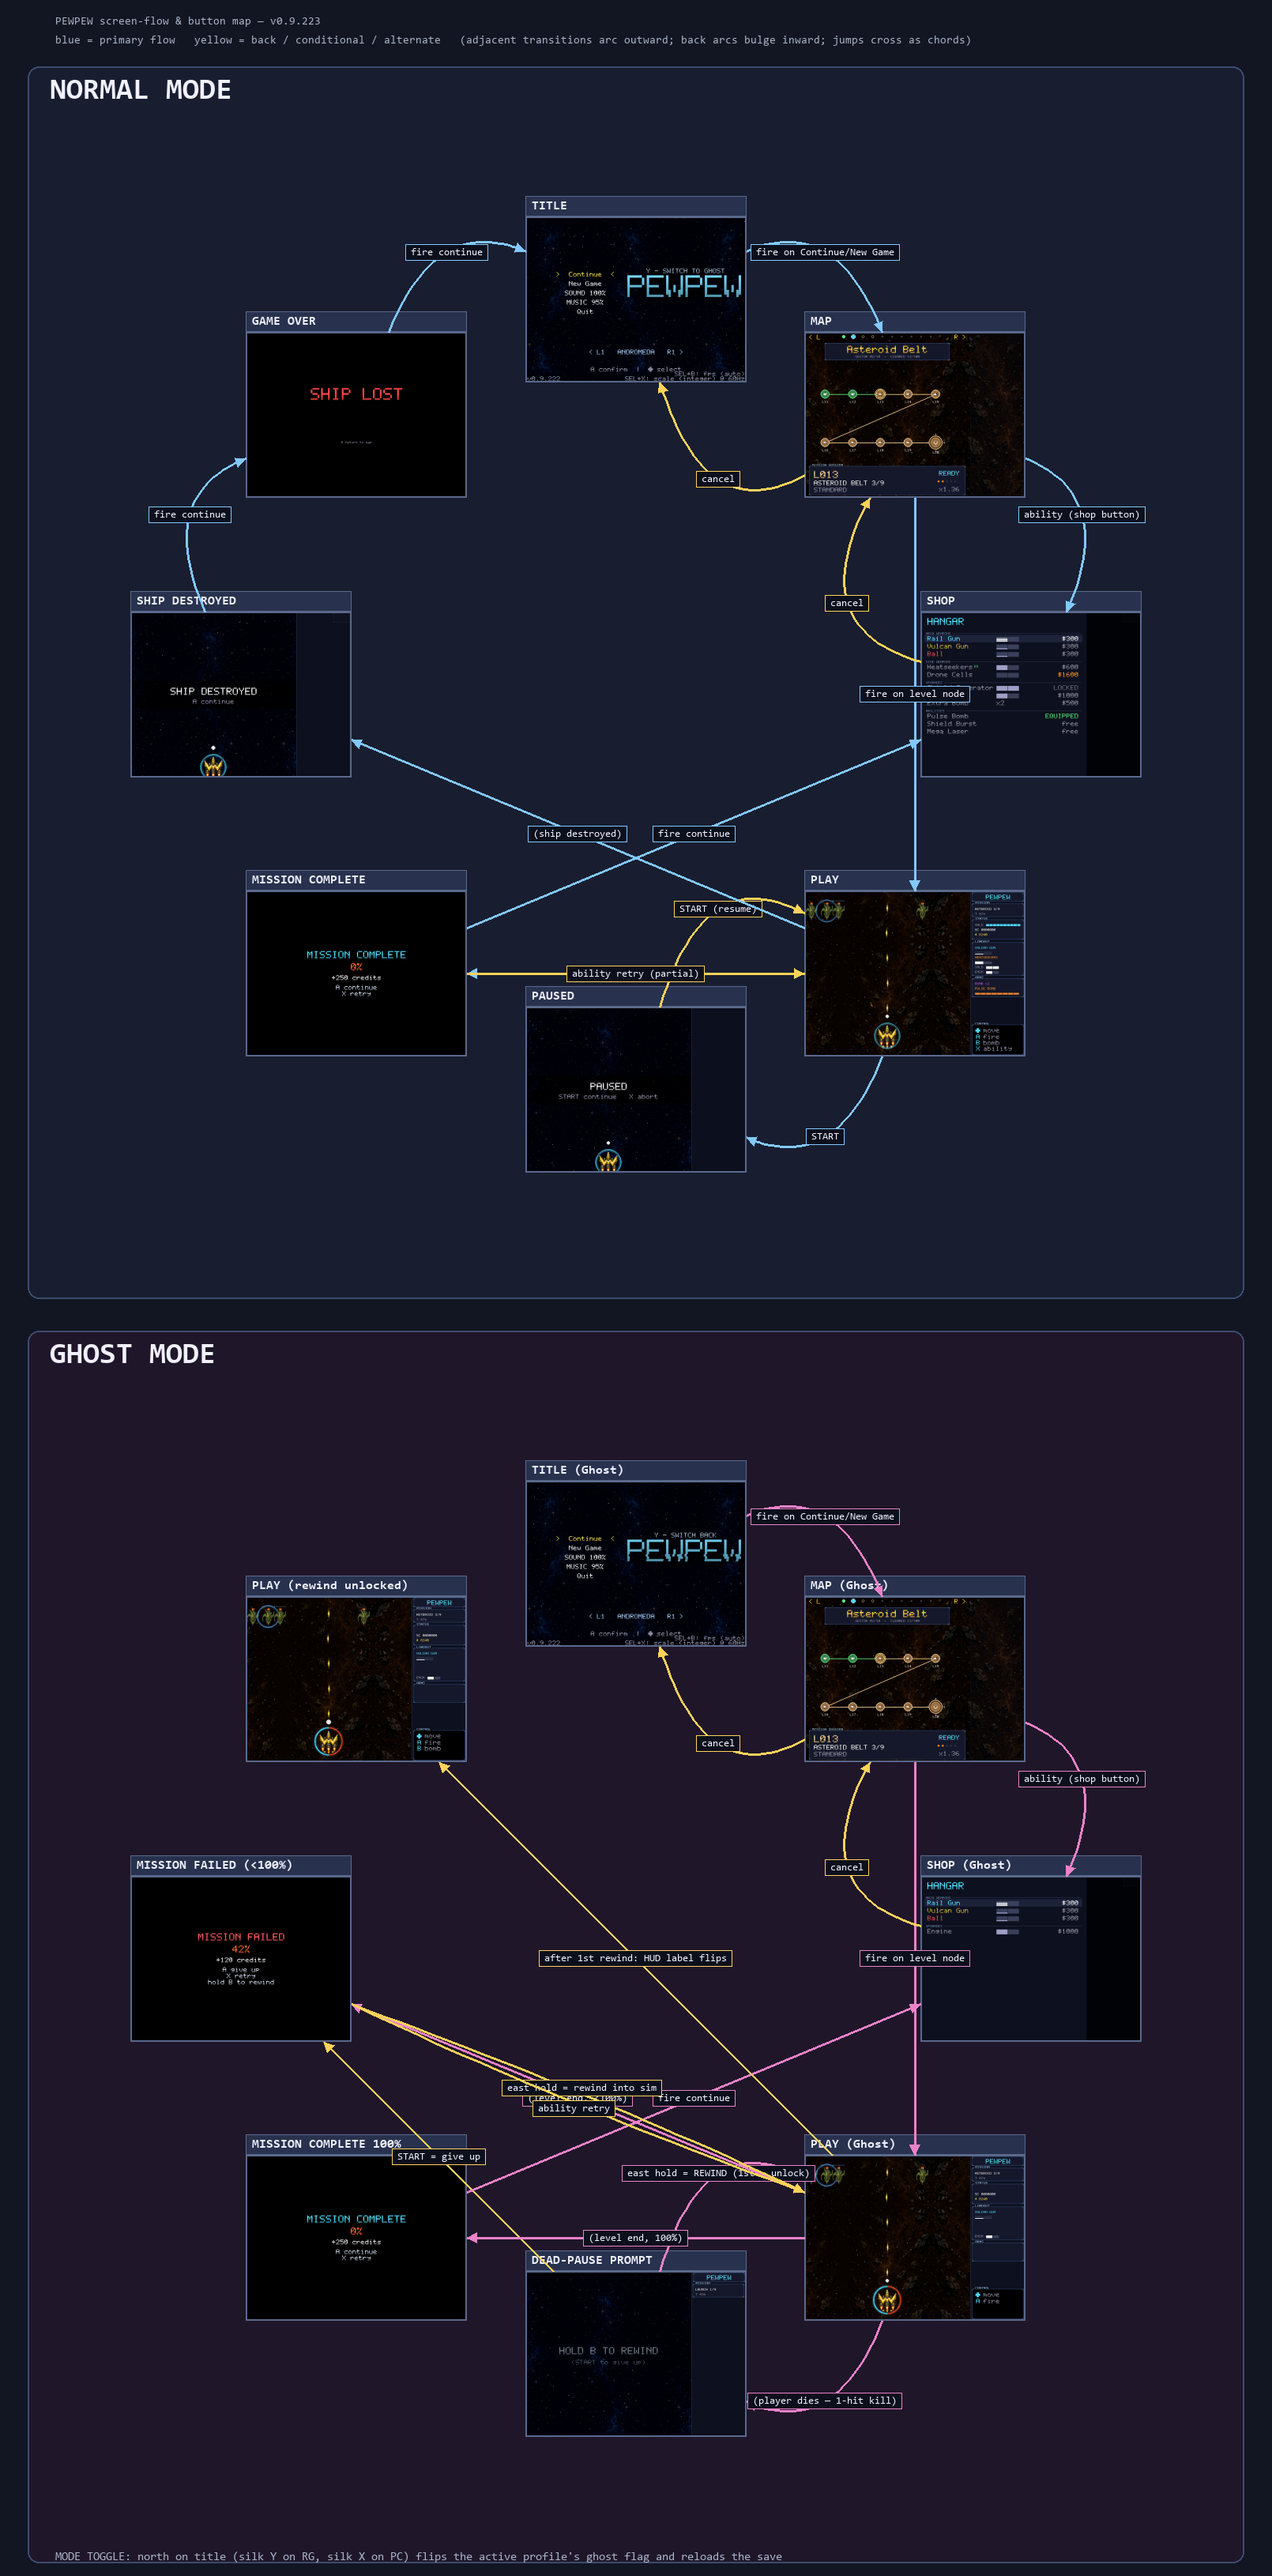
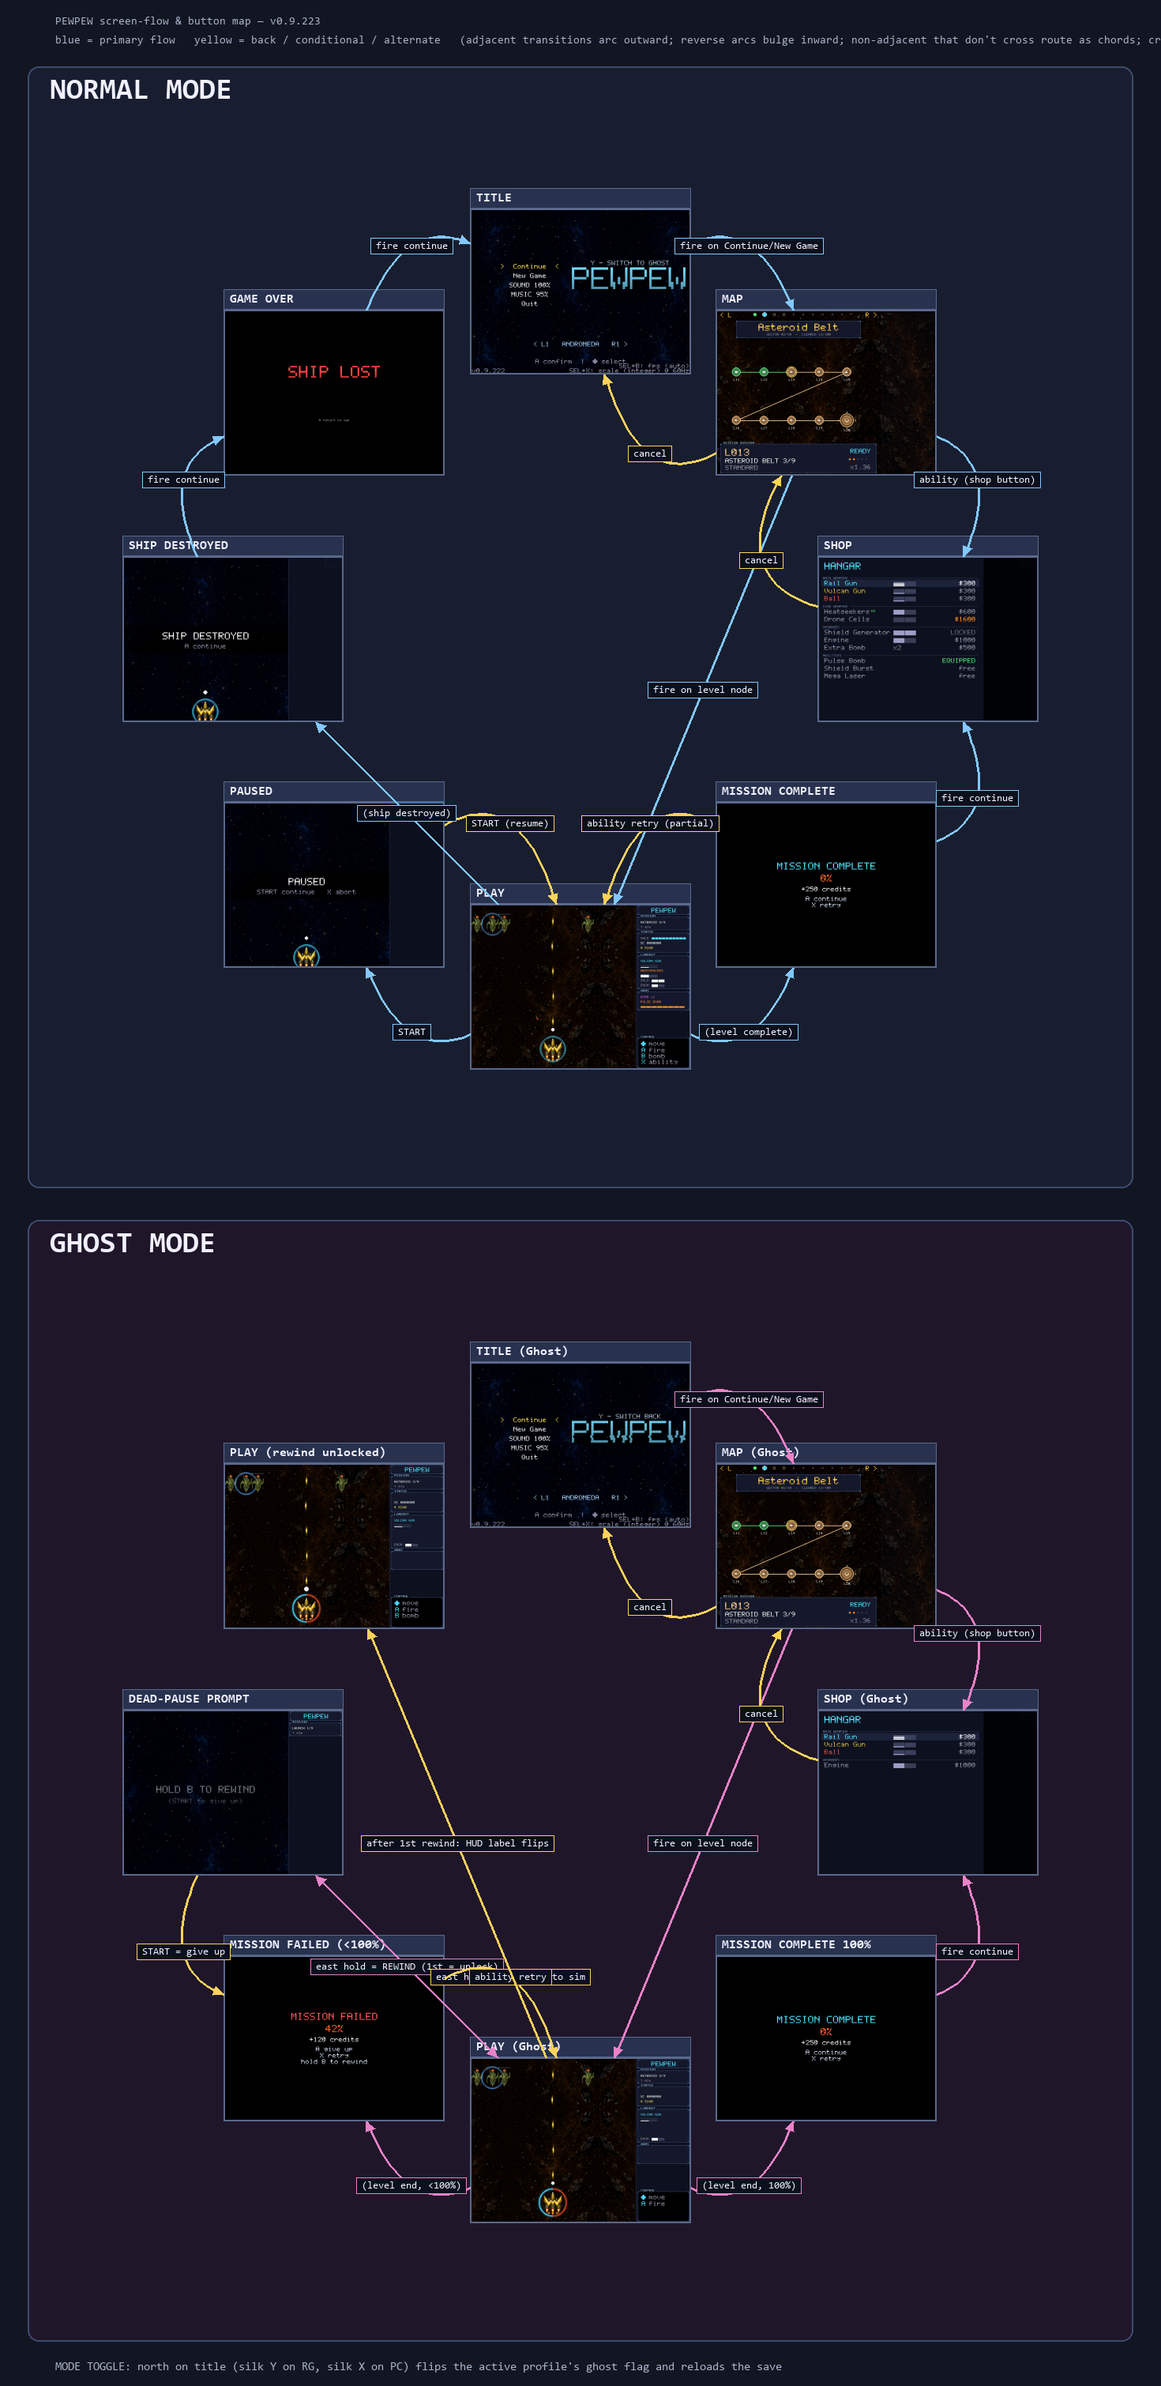
v0.9.223+: flow diagram — brute-force ordering, zero crossings
find_best_order() brute-forces all 7! orderings per mode with the
title locked at slot 0 (12 o'clock), scoring by (crossings, -arcs)
to minimise interior-chord crossings then maximise outer arcs.
Both NORMAL and GHOST land on 0 crossings with 10-11/14 arrows
adjacent as arcs.

assign_outer_arcs() greedily promotes any remaining crossing
chords to dedicated outer-arc lanes at increasing radii — no-op
here since the brute force eliminates all crossings, but stays
in place for future arrow additions.

Canvas now sized dynamically based on actual lanes used: drops
from 1610x3260 to 1470x3020.

diff --git a/_flow_diagram.py b/_flow_diagram.py
@@ -31,7 +31,7 @@ Windows); in-game labels follow BUTTON_SCHEME and swap on the RG.
 Face-position names (north/east/west/south) are used where the
 binding is the same on every controller.
 """
-import os, sys, math
+import os, sys, math, itertools
 os.environ.setdefault("SDL_VIDEODRIVER", "dummy")
 os.environ.setdefault("SDL_AUDIODRIVER", "dummy")
 import pygame
@@ -47,20 +47,28 @@ OUT_PATH = os.path.join(SHOT_DIR, "flow_diagram.png")
 
 # ── Canvas + tile geometry ──────────────────────────────────────────
 TILE_W, TILE_H = 280, 210
-RADIUS = 500
+RADIUS = 440
 SEC_HEAD = 60
 MARGIN = 70
-RIM_MARGIN = 60   # label breathing room past the outer tile reach
+RIM_MARGIN = 50
 
-# Outer reach from circle centre — diagonal half-tile so corner-placed
-# tiles (at 1:30, 4:30, etc.) still have clearance.
-OUTER = RADIUS + math.hypot(TILE_W, TILE_H) / 2 + RIM_MARGIN
+# Outer-arc lanes for non-adjacent arrows that would otherwise cross
+# in the interior. Each promoted chord gets its own concentric lane.
+OUTER_LANE_BASE = 1.34
+OUTER_LANE_STEP = 0.11
 
-SEC_W = int(2 * OUTER + 2 * MARGIN)
-SEC_H = int(SEC_HEAD + 2 * OUTER + 30)
 
-CANVAS_W = SEC_W
-CANVAS_H = MARGIN + 2 * SEC_H + 70
+def section_outer(lanes_used):
+    """Distance from circle centre to the section's outer edge.
+    Sized to the larger of (tile diagonal reach) and (outermost
+    arc-lane radius)."""
+    tile_reach = RADIUS + math.hypot(TILE_W, TILE_H) / 2
+    if lanes_used > 0:
+        ring = RADIUS * (OUTER_LANE_BASE
+                         + OUTER_LANE_STEP * (lanes_used - 1))
+    else:
+        ring = 0
+    return max(tile_reach, ring) + RIM_MARGIN
 
 BG = (18, 22, 34)
 SEC_NORMAL_BG = (24, 30, 48)
@@ -146,6 +154,106 @@ F_TITLE = font(16, bold=True)
 F_LABEL = font(13)
 F_FOOT = font(15)
 F_HEAD = font(14)
+
+
+# ── Order optimisation: minimise interior chord crossings ──────────
+def order_score(perm, arrows):
+    """Lower is better. Tuple (crossings, -arc_count): primary
+    objective is to minimise interior-chord crossings; tiebreaker is
+    maximum arc count (more adjacent-on-circle = more outer arcs =
+    visually cleaner). `perm` is an ordered tuple of screen ids."""
+    n = len(perm)
+    position = {sid: i for i, sid in enumerate(perm)}
+    chord_set = set()
+    arc_count = 0
+    for src, dst, *_ in arrows:
+        if src not in position or dst not in position:
+            continue
+        a, b = position[src], position[dst]
+        diff = min((a - b) % n, (b - a) % n)
+        if diff == 1:
+            arc_count += 1
+        else:
+            lo, hi = sorted((a, b))
+            chord_set.add((lo, hi))
+    chords = list(chord_set)
+    crossings = 0
+    for i in range(len(chords)):
+        ai, bi = chords[i]
+        for j in range(i + 1, len(chords)):
+            aj, bj = chords[j]
+            if (ai < aj < bi < bj) or (aj < ai < bj < bi):
+                crossings += 1
+    return (crossings, -arc_count)
+
+
+def find_best_order(screens, arrows):
+    """Brute force over (n-1)! permutations with screens[0] (=TITLE)
+    locked at slot 0 (12 o'clock). Rotation symmetry is broken by
+    the fixed slot, so the search space is just the orderings of the
+    remaining screens. With n=8 that's 5040 — trivially fast."""
+    n = len(screens)
+    ids = [s[0] for s in screens]
+    fixed = ids[0]
+    others = ids[1:]
+    best_score = None
+    best_perm = None
+    for tail in itertools.permutations(others):
+        perm = (fixed,) + tail
+        s = order_score(perm, arrows)
+        if best_score is None or s < best_score:
+            best_score = s
+            best_perm = perm
+    by_id = {s[0]: s for s in screens}
+    return [by_id[sid] for sid in best_perm], best_score
+
+
+def assign_outer_arcs(arrows, ordered_screens):
+    """Greedily promote crossing interior chords to outer-arc lanes.
+
+    After the ordering optimisation there can still be unavoidable
+    interior crossings if the arrow set requires them. For each
+    remaining crossing pair we pick the chord involved in the most
+    crossings and route it around the OUTSIDE of the circle (long
+    way), at a unique radius so multiple outer arcs don't cross each
+    other.
+
+    Returns {arrow_idx: lane_idx}. Adjacent-on-circle arrows are not
+    eligible (they're already arcs)."""
+    n = len(ordered_screens)
+    position = {s[0]: i for i, s in enumerate(ordered_screens)}
+    pair_arrows = {}
+    for idx, (src, dst, *_) in enumerate(arrows):
+        if src not in position or dst not in position:
+            continue
+        a, b = position[src], position[dst]
+        diff = min((a - b) % n, (b - a) % n)
+        if diff <= 1:
+            continue
+        pair = tuple(sorted((a, b)))
+        pair_arrows.setdefault(pair, []).append(idx)
+
+    outer_pairs = []
+    while True:
+        active = [p for p in pair_arrows if p not in outer_pairs]
+        per_pair = {p: 0 for p in active}
+        for i in range(len(active)):
+            ai, bi = active[i]
+            for j in range(i + 1, len(active)):
+                aj, bj = active[j]
+                if (ai < aj < bi < bj) or (aj < ai < bj < bi):
+                    per_pair[active[i]] += 1
+                    per_pair[active[j]] += 1
+        if not per_pair or max(per_pair.values()) == 0:
+            break
+        worst = max(per_pair, key=lambda p: per_pair[p])
+        outer_pairs.append(worst)
+
+    out_assignments = {}
+    for lane, pair in enumerate(outer_pairs):
+        for arrow_idx in pair_arrows[pair]:
+            out_assignments[arrow_idx] = lane
+    return out_assignments
 
 
 # ── Circle placement ────────────────────────────────────────────────
@@ -268,6 +376,30 @@ def draw_arc_arrow(canvas, src_rect, dst_rect,
     draw_label_chip(canvas, int(apex[0]), int(apex[1]), label, color)
 
 
+def draw_outer_arc_arrow(canvas, src_rect, dst_rect,
+                         src_idx, dst_idx, n, circle_c,
+                         lane_idx, label, color):
+    """Long-way arc around the OUTSIDE of the circle, at a per-lane
+    radius so multiple outer arcs sit at distinct distances and
+    never cross each other."""
+    a_src = slot_angle(src_idx, n)
+    a_dst = slot_angle(dst_idx, n)
+    short_mid = (a_src + a_dst) / 2
+    if abs(a_dst - a_src) > math.pi:
+        short_mid += math.pi
+    long_mid = short_mid + math.pi
+    bulge_r = RADIUS * (OUTER_LANE_BASE + OUTER_LANE_STEP * lane_idx)
+    ctrl = (circle_c[0] + bulge_r * math.sin(long_mid),
+            circle_c[1] - bulge_r * math.cos(long_mid))
+    sp = rect_edge_toward(src_rect, ctrl)
+    dp = rect_edge_toward(dst_rect, ctrl)
+    pts = quadratic_bezier(sp, ctrl, dp, steps=36)
+    pygame.draw.lines(canvas, color, False, pts, 3)
+    draw_arrowhead(canvas, pts[-1], pts[-2], color)
+    apex = pts[len(pts) // 2]
+    draw_label_chip(canvas, int(apex[0]), int(apex[1]), label, color)
+
+
 def draw_chord_arrow(canvas, src_rect, dst_rect, label, color, lane_offset=0):
     """Straight chord with optional perpendicular offset on the
     midpoint so parallel chords don't overlap their labels."""
@@ -290,30 +422,31 @@ def draw_chord_arrow(canvas, src_rect, dst_rect, label, color, lane_offset=0):
 
 
 # ── Section renderer ────────────────────────────────────────────────
-def draw_section(canvas, header, screens, arrows, sec_y, bg,
+def draw_section(canvas, header, ordered, arrows, outer_assignments,
+                 sec_y, sec_w, sec_h, outer, bg,
                  arrow_blue, arrow_yellow):
-    band = pygame.Rect(MARGIN // 2, sec_y, CANVAS_W - MARGIN, SEC_H)
+    band = pygame.Rect(MARGIN // 2, sec_y, sec_w - MARGIN, sec_h)
     pygame.draw.rect(canvas, bg, band, border_radius=14)
     pygame.draw.rect(canvas, (60, 75, 110), band, 2, border_radius=14)
     head_surf = F_SEC.render(header, True, HEAD_FG)
     canvas.blit(head_surf, (band.x + 28, sec_y + 12))
 
-    cx = CANVAS_W // 2
-    cy = sec_y + SEC_HEAD + int(OUTER)
+    cx = sec_w // 2
+    cy = sec_y + SEC_HEAD + int(outer)
     circle_c = (cx, cy)
 
     rects = {}
     indices = {}
-    n = len(screens)
-    for i, (sid, fname, title) in enumerate(screens):
+    n = len(ordered)
+    for i, (sid, fname, title) in enumerate(ordered):
         rect = slot_rect(i, n, cx, cy)
         rects[sid] = rect
         indices[sid] = i
         draw_tile(canvas, sid,
                   os.path.join(SHOT_DIR, fname), title, rect)
 
-    # Group same-pair arrows so we can stagger forward/back on opposite
-    # bulge sides (one outward, one inward) instead of overlapping.
+    # Group same-pair arrows so forward/back arcs split on opposite
+    # bulge sides.
     pair_counter = {}
     for idx, (src, dst, label, color_key) in enumerate(arrows):
         if src not in rects or dst not in rects:
@@ -321,15 +454,14 @@ def draw_section(canvas, header, screens, arrows, sec_y, bg,
         key = tuple(sorted((src, dst)))
         pair_counter.setdefault(key, []).append(idx)
 
-    # Pre-build per-arrow chord lane offsets for non-adjacent pairs
-    # that appear multiple times (e.g. two fail_g→play_g arrows).
+    # Per-pair chord-lane offsets (for chord arrows that share a pair).
     chord_seen = {}
     for idx, (src, dst, _, _) in enumerate(arrows):
         if src not in rects or dst not in rects:
             continue
         si, di = indices[src], indices[dst]
         diff = abs(short_arc_diff(si, di, n))
-        if diff > 1:
+        if diff > 1 and idx not in outer_assignments:
             chord_seen.setdefault((src, dst), []).append(idx)
 
     for idx, (src, dst, label, color_key) in enumerate(arrows):
@@ -340,28 +472,54 @@ def draw_section(canvas, header, screens, arrows, sec_y, bg,
         color = arrow_blue if color_key == "blue" else arrow_yellow
 
         if diff == 1:
-            # Adjacent — arc. Forward bulge outward; back bulges inward.
             pair_key = tuple(sorted((src, dst)))
             pair_idxs = pair_counter.get(pair_key, [idx])
-            # The "first appearing" arrow in the pair bulges outward,
-            # subsequent ones bulge inward.
             bulge_outward = pair_idxs[0] == idx
             draw_arc_arrow(canvas, rects[src], rects[dst],
                            si, di, n, circle_c,
                            bulge_outward, label, color)
+        elif idx in outer_assignments:
+            draw_outer_arc_arrow(canvas, rects[src], rects[dst],
+                                 si, di, n, circle_c,
+                                 outer_assignments[idx], label, color)
         else:
-            # Non-adjacent — chord, with optional perpendicular offset
-            # when multiple chords share the same pair.
             duplicates = chord_seen.get((src, dst), [idx])
             n_dup = len(duplicates)
-            j = duplicates.index(idx)
+            j = duplicates.index(idx) if idx in duplicates else 0
             offset = (j - (n_dup - 1) / 2) * 28 if n_dup > 1 else 0
             draw_chord_arrow(canvas, rects[src], rects[dst],
                              label, color, lane_offset=offset)
 
 
 def main():
-    canvas = pygame.Surface((CANVAS_W, CANVAS_H))
+    # ── Optimisation pass: find best ordering + outer-arc assignments
+    #    for both modes BEFORE sizing the canvas, so we reserve only
+    #    as much outer-lane space as we actually use.
+    n_ordered, n_score = find_best_order(NORMAL, NORMAL_ARROWS)
+    n_outer_arcs = assign_outer_arcs(NORMAL_ARROWS, n_ordered)
+    g_ordered, g_score = find_best_order(GHOST, GHOST_ARROWS)
+    g_outer_arcs = assign_outer_arcs(GHOST_ARROWS, g_ordered)
+
+    print(f"[NORMAL] crossings={n_score[0]}  arcs={-n_score[1]}  "
+          f"outer_lanes={len(set(n_outer_arcs.values()))}  "
+          f"order={[s[0] for s in n_ordered]}")
+    print(f"[GHOST]  crossings={g_score[0]}  arcs={-g_score[1]}  "
+          f"outer_lanes={len(set(g_outer_arcs.values()))}  "
+          f"order={[s[0] for s in g_ordered]}")
+
+    max_lanes_n = (max(n_outer_arcs.values()) + 1) if n_outer_arcs else 0
+    max_lanes_g = (max(g_outer_arcs.values()) + 1) if g_outer_arcs else 0
+    outer_n = section_outer(max_lanes_n)
+    outer_g = section_outer(max_lanes_g)
+
+    sec_w = int(2 * max(outer_n, outer_g) + 2 * MARGIN)
+    sec_h_n = int(SEC_HEAD + 2 * outer_n + 30)
+    sec_h_g = int(SEC_HEAD + 2 * outer_g + 30)
+
+    canvas_w = sec_w
+    canvas_h = MARGIN + sec_h_n + sec_h_g + 40 + 70
+
+    canvas = pygame.Surface((canvas_w, canvas_h))
     canvas.fill(BG)
 
     head = F_HEAD.render(
@@ -371,24 +529,27 @@ def main():
 
     legend = F_HEAD.render(
         "blue = primary flow   yellow = back / conditional / alternate   "
-        "(adjacent transitions arc outward; back arcs bulge inward; "
-        "jumps cross as chords)",
+        "(adjacent transitions arc outward; reverse arcs bulge inward; "
+        "non-adjacent that don't cross route as chords; crossings "
+        "escape to outer arcs)",
         True, DIM)
     canvas.blit(legend, (MARGIN, 44))
 
     sec_n_y = MARGIN + 14
-    sec_g_y = sec_n_y + SEC_H + 40
+    sec_g_y = sec_n_y + sec_h_n + 40
 
-    draw_section(canvas, "NORMAL MODE", NORMAL, NORMAL_ARROWS,
-                 sec_n_y, SEC_NORMAL_BG, ARROW_BLUE, ARROW_YELLOW)
-    draw_section(canvas, "GHOST MODE", GHOST, GHOST_ARROWS,
-                 sec_g_y, SEC_GHOST_BG, ARROW_BLUE_GHOST, ARROW_YELLOW)
+    draw_section(canvas, "NORMAL MODE", n_ordered, NORMAL_ARROWS,
+                 n_outer_arcs, sec_n_y, sec_w, sec_h_n, outer_n,
+                 SEC_NORMAL_BG, ARROW_BLUE, ARROW_YELLOW)
+    draw_section(canvas, "GHOST MODE", g_ordered, GHOST_ARROWS,
+                 g_outer_arcs, sec_g_y, sec_w, sec_h_g, outer_g,
+                 SEC_GHOST_BG, ARROW_BLUE_GHOST, ARROW_YELLOW)
 
     foot = F_FOOT.render(MODE_TOGGLE, True, DIM)
-    canvas.blit(foot, (MARGIN, CANVAS_H - 32))
+    canvas.blit(foot, (MARGIN, canvas_h - 32))
 
     pygame.image.save(canvas, OUT_PATH)
-    print(f"flow diagram -> {OUT_PATH}  ({CANVAS_W}x{CANVAS_H})")
+    print(f"flow diagram -> {OUT_PATH}  ({canvas_w}x{canvas_h})")
 
 
 if __name__ == "__main__":
